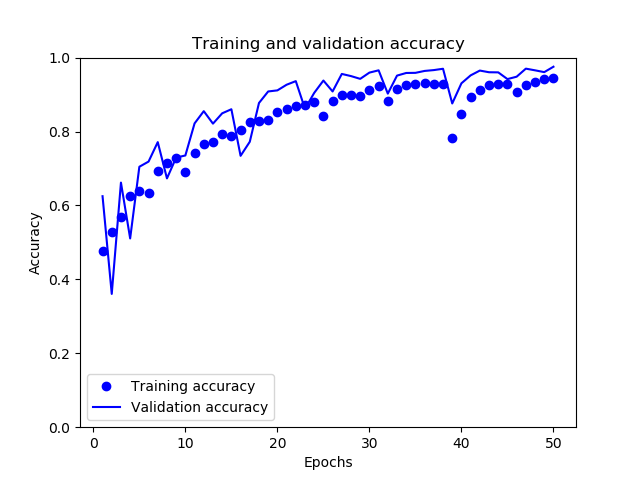
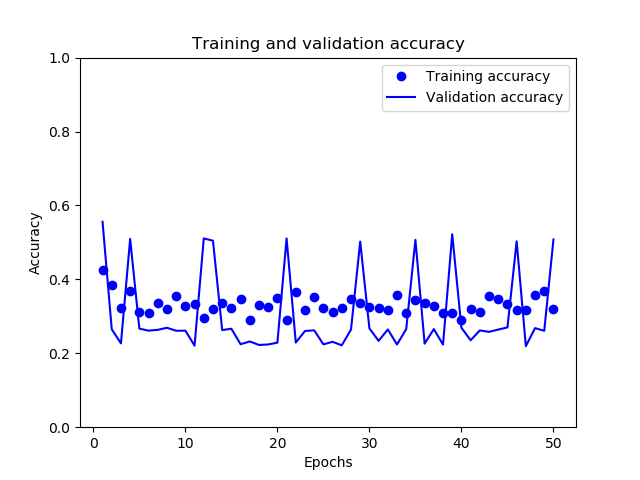
Revert "Billeder af forskelllige cnns"
This reverts commit 31676f03

diff --git a/models/cnn/CNN_model_test/cnn_30.py b/models/cnn/CNN_model_test/cnn_30.py
@@ -3,7 +3,7 @@ from keras.layers import Convolution2D, Dropout
 from keras.layers import MaxPooling2D
 from keras.layers import Flatten
 from keras.layers import Dense
-from keras import backend as K
+from keras import backend as K, optimizers
 from models.cnn.cnn_tests.customfunctions import get_init_conv_layer, get_conv_layer, \
     get_maxpool_layer, get_dropout_layer, get_dense_layer, create_plot_acc, create_plot_loss, get_fit_generator, \
     get_train_data_gen, get_test_data_gen, get_image_data_gen, get_rescale_gen
@@ -35,8 +35,8 @@ classifier.add(Flatten())
 classifier.add(get_dense_layer(2048))
 
 classifier.add(Dense(activation="softmax", units=3))
-
-classifier.compile(optimizer='SGD', loss='categorical_crossentropy', metrics=['accuracy'])
+sgd = optimizers.SGD(momentum=0.9)
+classifier.compile(optimizer=sgd, loss='categorical_crossentropy', metrics=['accuracy'])
 
 train_datagen = get_image_data_gen()
 

diff --git a/models/cnn/CNN_model_test/cnn_31.py b/models/cnn/CNN_model_test/cnn_31.py
@@ -3,7 +3,7 @@ from keras.layers import Convolution2D, Dropout
 from keras.layers import MaxPooling2D
 from keras.layers import Flatten
 from keras.layers import Dense
-from keras import backend as K
+from keras import backend as K, optimizers
 from models.cnn.cnn_tests.customfunctions import get_init_conv_layer, get_conv_layer, \
     get_maxpool_layer, get_dropout_layer, get_dense_layer, create_plot_acc, create_plot_loss, get_fit_generator, \
     get_train_data_gen, get_test_data_gen, get_image_data_gen, get_rescale_gen
@@ -32,8 +32,8 @@ classifier.add(Flatten())
 classifier.add(get_dense_layer(2048))
 
 classifier.add(Dense(activation="softmax", units=3))
-
-classifier.compile(optimizer='SGD', loss='categorical_crossentropy', metrics=['accuracy'])
+sgd = optimizers.SGD(momentum=0.9)
+classifier.compile(optimizer=sgd, loss='categorical_crossentropy', metrics=['accuracy'])
 
 train_datagen = get_image_data_gen()
 
